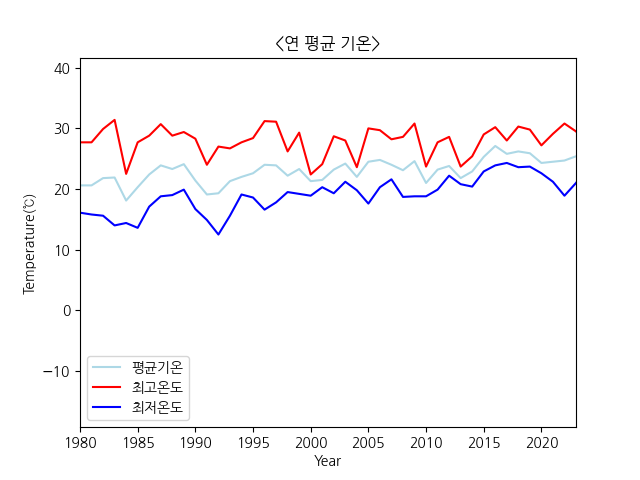
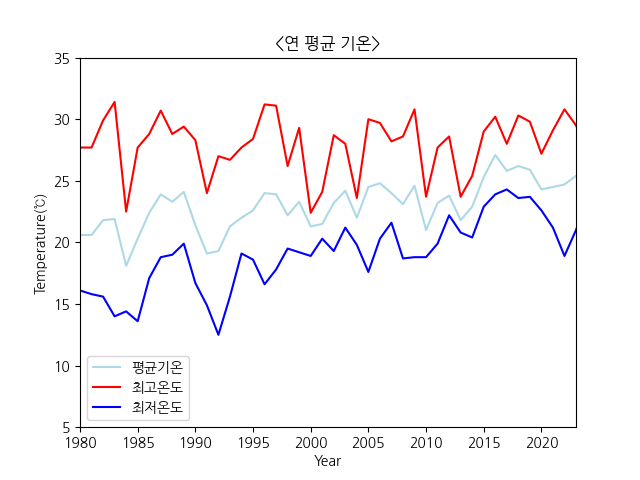
13주차 과제 코드

diff --git a/hw18/mybirth_temp.py b/hw18/mybirth_temp.py
@@ -1,0 +1,51 @@
+import os
+import requests
+
+import matplotlib.pyplot as plt
+import numpy as np
+
+url=" https://api.taegon.kr/stations/146/?sy=1980&ey=2023&format=csv"
+
+filename="./hw18/weather_146_1980-2023.csv"
+
+if not os.path.exists(filename):
+    with open(filename,"w") as f:
+        res =requests.get(url)
+        f.write(res.text)
+
+from summer_winter import read_col, read_col_int
+
+def main():
+    tavg=read_col(filename, "tavg")
+    year_tavg=np.array(tavg)
+    date_temp=[]
+
+    years=read_col_int(filename, "year")
+    months=read_col_int(filename, "month")
+    days=read_col_int(filename, "day")
+    date=[]
+
+    for m, d in zip(months, days):
+        if m in [8]:
+            if d in [24]:
+                date.append(years)
+                date_temp.append(tavg)
+        else:
+            pass
+
+    plt.rcParams['font.family'] = ['NanumGothic', 'sans-serif']
+    plt.rcParams['axes.unicode_minus'] = False
+
+    plt.plot(year_tavg, color="g", label="평균기온", marker='o')
+     
+    plt.ylabel("Temperature(℃)")
+    plt.xlabel("Year")
+    plt.xlim(2000,2023)
+    plt.ylim(20,30)
+
+    plt.legend()
+    plt.title("<내 생일날(8/24)의 기온>")
+    plt.savefig("./hw18/mybirth_temp.png")
+
+if __name__ == "__main__":
+    main()

diff --git a/hw18/years_temp.py b/hw18/years_temp.py
@@ -44,6 +44,7 @@ def main():
     plt.ylabel("Temperature(℃)")
     plt.xlabel("Year")
     plt.xlim(1980,2023)
+    plt.ylim(5,35)
 
     plt.title("<연 평균 기온>")
     plt.legend()
